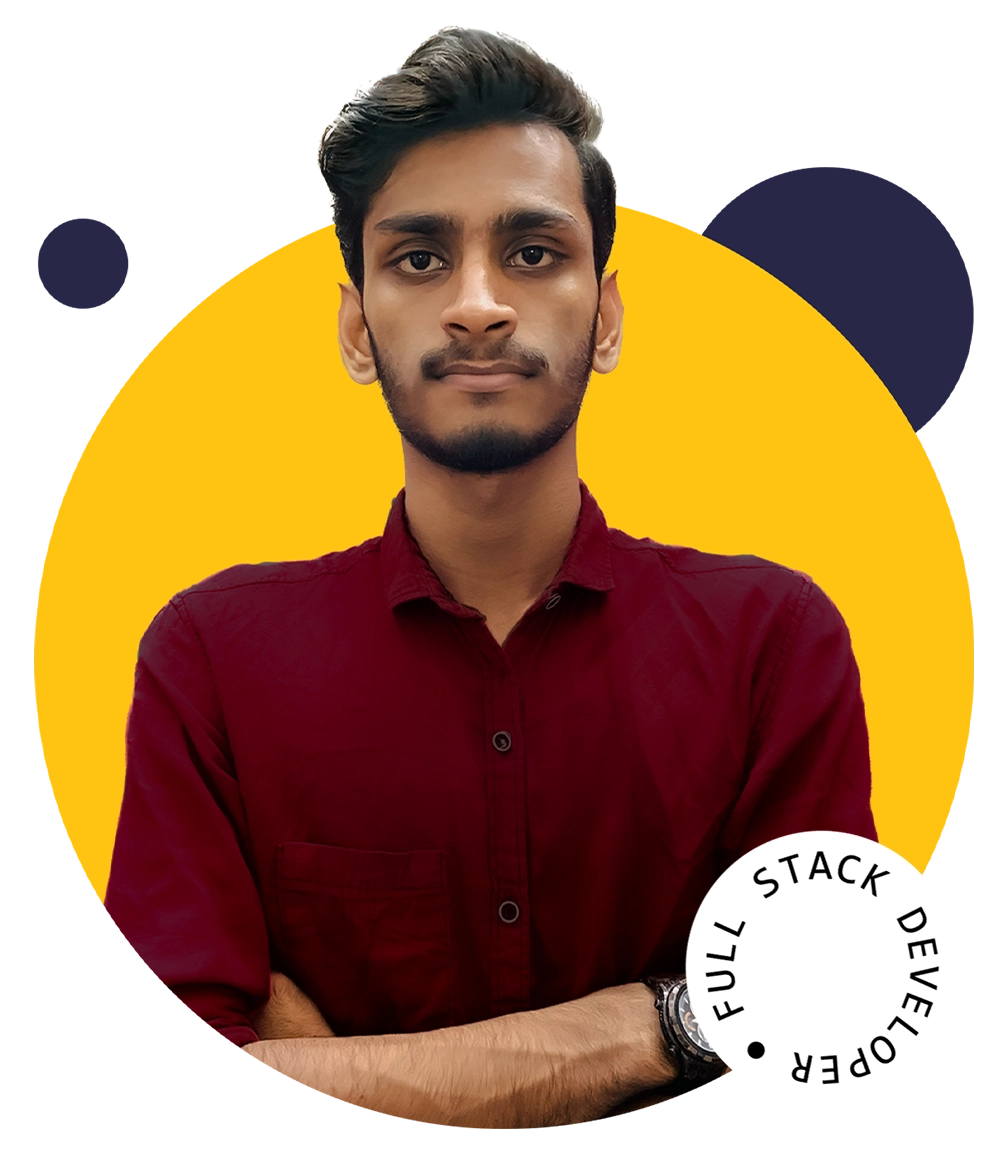
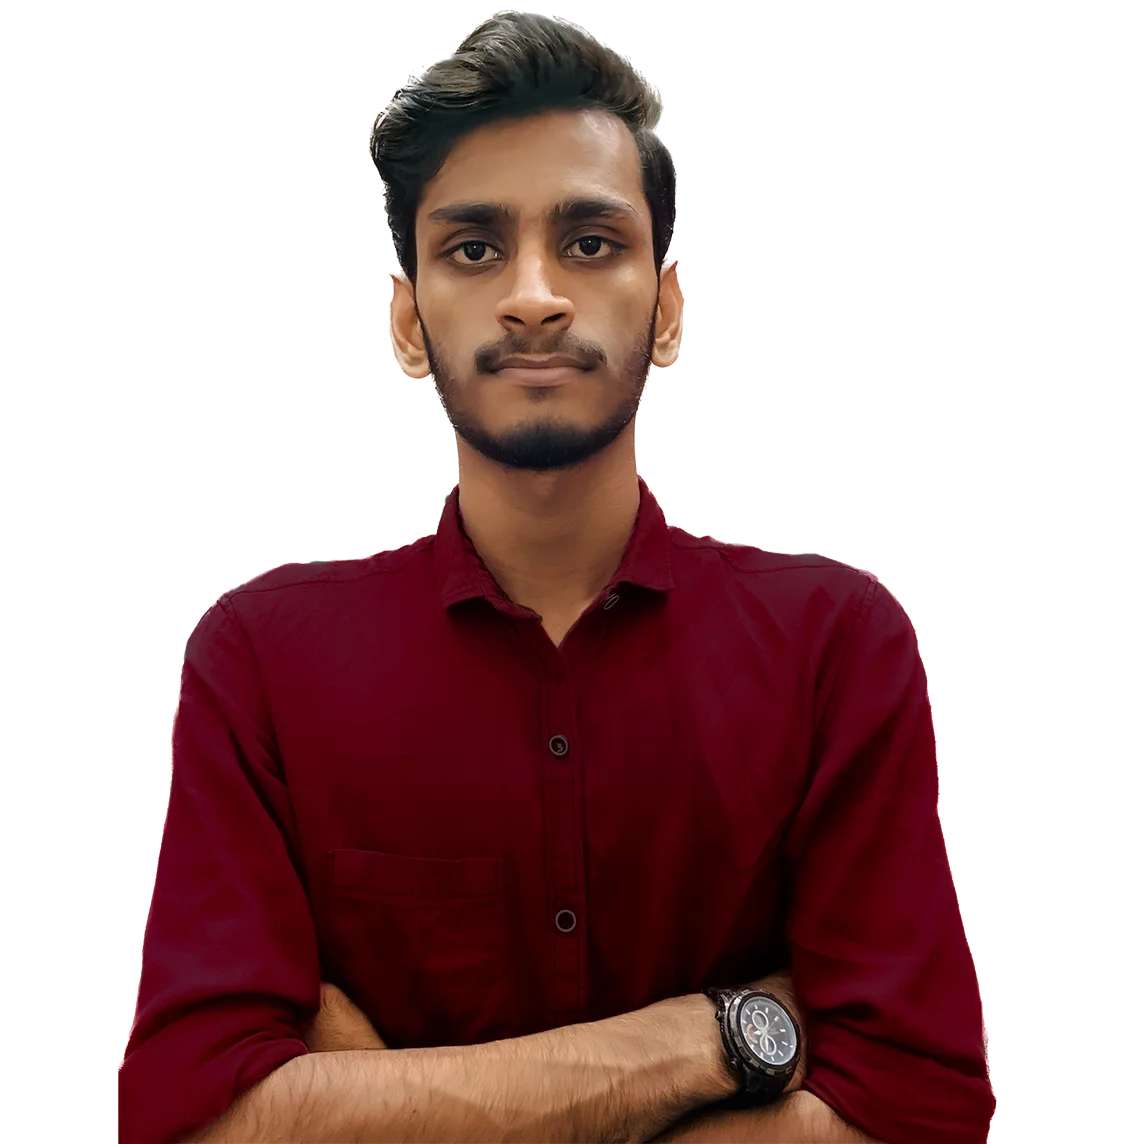
modified:   app/components/home/page.tsx 	deleted:    app/components/spare/circleText.tsx 	new file:   app/components/spare/svg.tsx 	modified:   app/components/works/page.tsx 	modified:   app/globals.css 	new file:   public/circle.webp 	modified:   public/didhee.webp 	modified:   public/portfolio.we

diff --git a/app/components/works/page.tsx b/app/components/works/page.tsx
@@ -48,7 +48,7 @@ export default function Works() {
             <div
               data-aos="zoom-in"
               key={index}
-              className="w-fit h-[22rem] flex flex-col justify-center items-center gap-5 shadow-md rounded-lg overflow-hidden relative group/works sm:w-[15rem] md:w-[18rem] lg:w-[25rem]"
+              className="w-fit h-[20rem] flex flex-col justify-center items-center gap-5 shadow-md rounded-lg overflow-hidden relative group/works sm:w-[15rem] md:w-[18rem] lg:w-[25rem]"
             >
               <Image
                 src={value?.image}
@@ -57,7 +57,7 @@ export default function Works() {
                 height={100}
                 quality={100}
                 priority={true}
-                className="w-full h-full object-cover shadow-md"
+                className="w-full h-full object-contain shadow-md"
               />
               <p className="text-lg font-medium text-gray-800 pb-5">
                 {value?.projectName}
@@ -66,7 +66,12 @@ export default function Works() {
                 key={index}
                 className="w-full h-full flex flex-col justify-center items-center gap-5 absolute top-0 left-0 p-5 rounded-lg translate-y-full transition duration-500 ease-in-out group-hover/works:translate-y-0 bg-white bg-opacity-[80%]"
               >
-                <p className="text-lg font-medium">{value?.description}</p>
+                <p
+                  className="text-lg font-medium overflow-y-scroll"
+                  style={{ scrollbarWidth: "none" }}
+                >
+                  {value?.description}
+                </p>
                 <div className="flex gap-2 md:gap-5">
                   <WorksButtons
                     icon={<AiOutlineLink size={20} />}

diff --git a/app/components/spare/svg.tsx b/app/components/spare/svg.tsx
@@ -1,0 +1,36 @@
+export default function Svg() {
+  return (
+    <svg id="sw-js-blob-svg" viewBox="0 0 100 100" data-aos="fade-up">
+      <mask id="mask1" mask-type="alpha">
+        <path
+          fill="rgb(234, 179, 8)"
+          d="M22.9,-38.4C29.3,-35.9,34,-29.1,37.2,-22C40.4,-14.9,42.1,-7.4,42.4,0.2C42.7,7.7,41.4,15.5,37.8,21.8C34.1,28.1,28,33,21.3,36.5C14.6,40,7.3,42.2,0.5,41.4C-6.4,40.6,-12.7,36.8,-19.1,33.1C-25.4,29.3,-31.7,25.7,-36.9,20.2C-42,14.7,-46,7.3,-46.3,-0.2C-46.7,-7.7,-43.4,-15.5,-39.1,-22.3C-34.7,-29.2,-29.2,-35.2,-22.5,-37.6C-15.8,-40,-7.9,-38.9,0.1,-39.1C8.2,-39.4,16.4,-41,22.9,-38.4Z"
+          width="100%"
+          height="100%"
+          transform="translate(50 50)"
+          strokeWidth="0"
+          style={{ transition: "all 0.3s ease 0s" }}
+        ></path>
+      </mask>
+      <g mask="url(#mask1)">
+        <path
+          fill="rgb(234, 179, 8)"
+          d="M22.9,-38.4C29.3,-35.9,34,-29.1,37.2,-22C40.4,-14.9,42.1,-7.4,42.4,0.2C42.7,7.7,41.4,15.5,37.8,21.8C34.1,28.1,28,33,21.3,36.5C14.6,40,7.3,42.2,0.5,41.4C-6.4,40.6,-12.7,36.8,-19.1,33.1C-25.4,29.3,-31.7,25.7,-36.9,20.2C-42,14.7,-46,7.3,-46.3,-0.2C-46.7,-7.7,-43.4,-15.5,-39.1,-22.3C-34.7,-29.2,-29.2,-35.2,-22.5,-37.6C-15.8,-40,-7.9,-38.9,0.1,-39.1C8.2,-39.4,16.4,-41,22.9,-38.4Z"
+          width="100%"
+          height="100%"
+          transform="translate(50 50)"
+          strokeWidth="0"
+          style={{ transition: "all 0.3s ease 0s" }}
+        ></path>
+        <image width="80" x="10" y="12" href="didhee.webp"></image>
+      </g>
+      <image
+        className="circle-spin"
+        width="20"
+        x="67"
+        y="72"
+        href="circle.webp"
+      ></image>
+    </svg>
+  );
+}

diff --git a/app/components/home/page.tsx b/app/components/home/page.tsx
@@ -1,11 +1,11 @@
 "use client";
 
-import Image from "next/image";
 import { AiOutlineDownload } from "react-icons/ai";
 import { BsFacebook, BsGithub, BsInstagram, BsLinkedin } from "react-icons/bs";
 import { FaXTwitter } from "react-icons/fa6";
 import { HomeButtons } from "../spare/buttons";
 import { TypeAnimation } from "react-type-animation";
+import Svg from "../spare/svg";
 
 export default function Home() {
   interface Data {
@@ -112,16 +112,7 @@ export default function Home() {
           />
         </div>
       </div>
-      <Image
-        src={data?.image}
-        alt="Image"
-        width={100}
-        height={100}
-        quality={100}
-        priority={true}
-        data-aos="fade-up"
-        className="w-full h-full object-contain"
-      />
+      <Svg />
     </div>
   );
 }

diff --git a/app/globals.css b/app/globals.css
@@ -23,3 +23,18 @@ html {
 ::-webkit-scrollbar {
   width: 0rem;
 }
+
+.circle-spin {
+  transform-origin: center;
+  transform-box: fill-box;
+  animation: spin 12s linear infinite;
+}
+
+@keyframes spin {
+  0% {
+    transform: rotate(0deg);
+  }
+  100% {
+    transform: rotate(360deg);
+  }
+}
